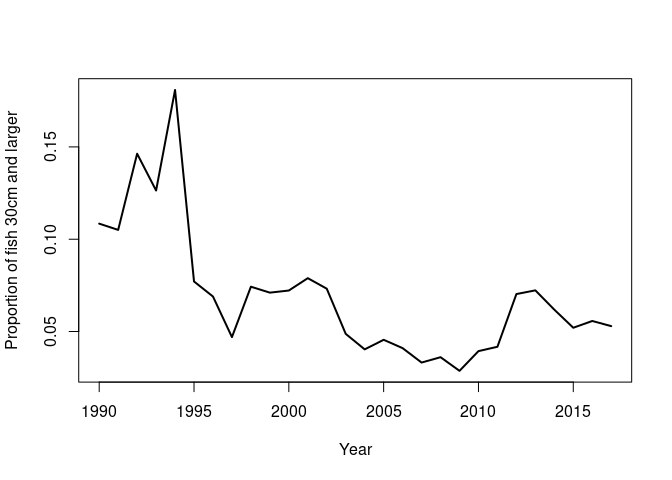
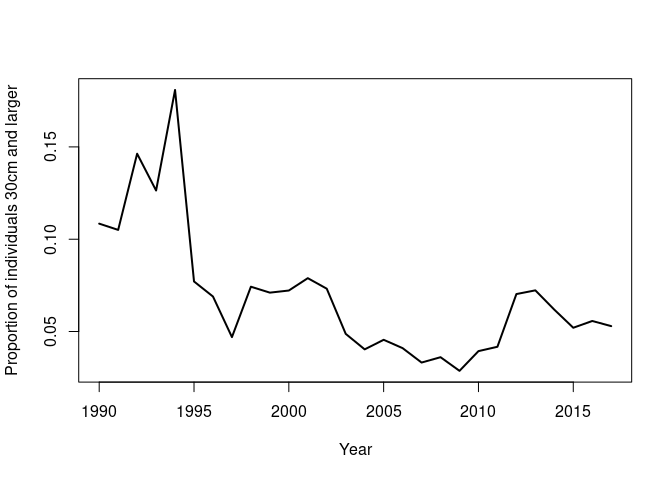
update

Changed region(s): [[0.0, 0.1875, 0.0312, 0.7812]]

diff --git a/README.md b/README.md
@@ -9,6 +9,7 @@ Load the package
     library(size)
 
 Plot the survey locations on a map of the Gulf
+----------------------------------------------
 
     map.f()
     points(-decdeg.f(ngsl.set$lon_deb*100),decdeg.f(ngsl.set$lat_deb*100),pch=".",col="red")
@@ -25,6 +26,6 @@ individuals
 
 Plot the various PLF community indicators
 
-    plot(PLF.all$year, PLF.all$plf,xlab="Year",ylab="Proportion of fish 30cm and larger",type="l",lwd=2)
+    plot(PLF.all$year, PLF.all$plf,xlab="Year",ylab="Proportion of individuals 30cm and larger",type="l",lwd=2)
 
 ![](README_files/figure-markdown_strict/PLFplots-1.png)
